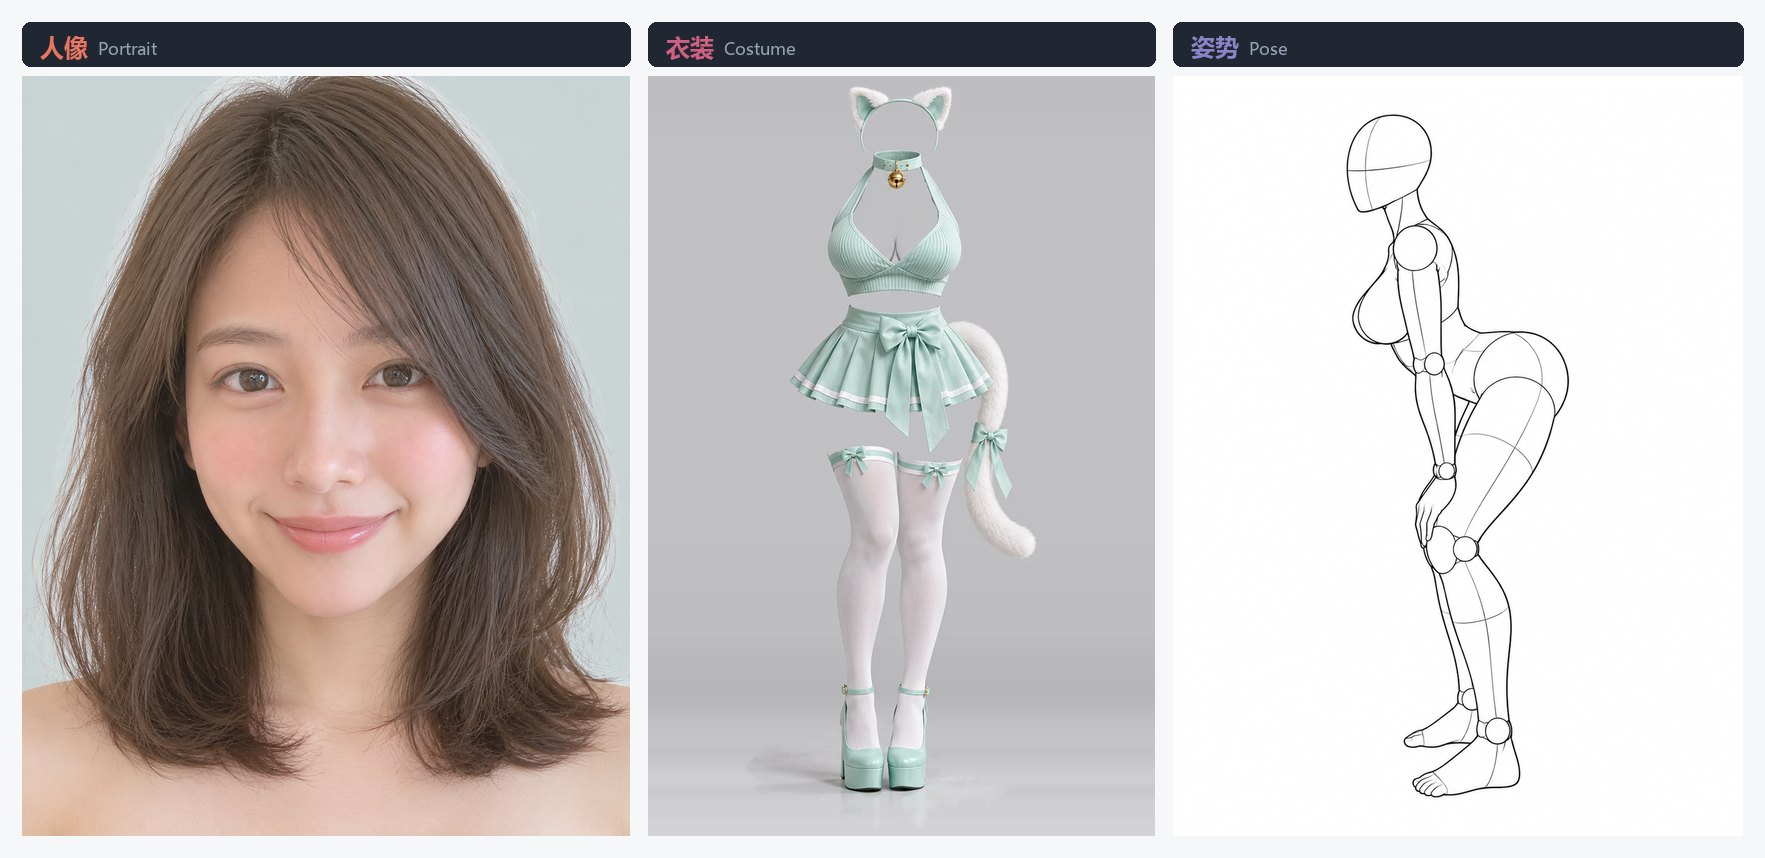
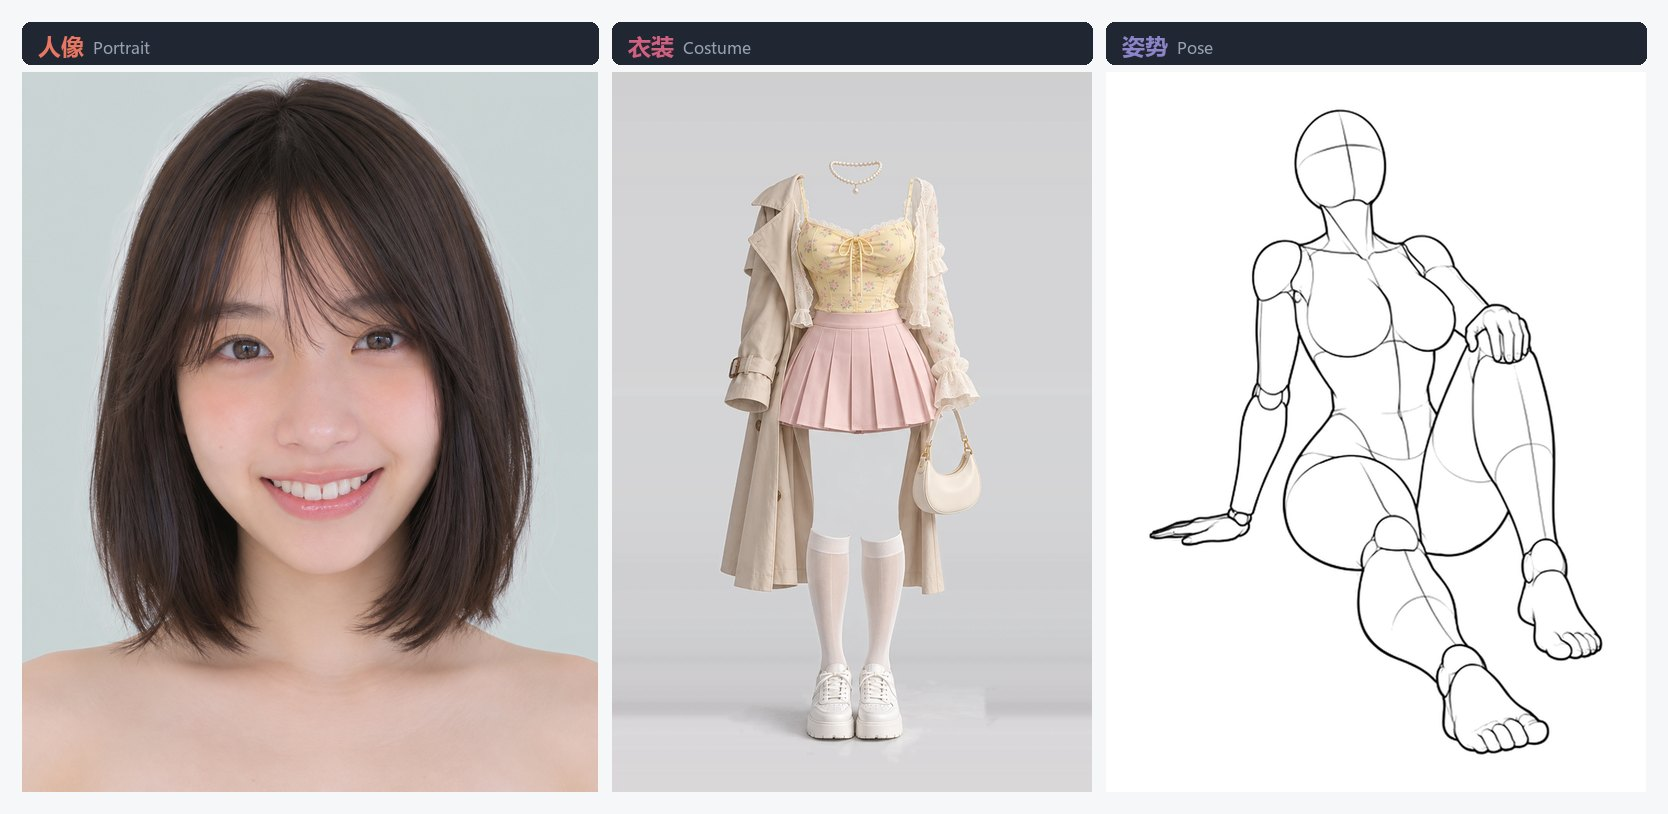
docs: 补充效果对比图与工作流示意图，修复种子上限
- docs/compare.jpg：三张参考图 → Qwen-Image-Edit 成品，同一组素材实跑
- docs/workflow.png：修复版工作流接线示意（CLIP type / latent 来源）
- docs/showcase.jpg：换成与对比图同一次运行的素材，保证前后一致
- README 增加「工作流接法」章节，写明两处必须正确的接线
- nodes.py：随机种子上限从 2^31-1 改为 2^64-1，否则前端生成的大种子
  提交时会被校验拒绝（value_bigger_than_max）

diff --git a/nodes.py b/nodes.py
@@ -82,7 +82,7 @@ class RuiCPoseAtlasLoader:
             "required": {
                 # 默认第一项即默认值：默认出原图，避免误用缩略图（400x500 级别）
                 "质量": (["原图", "缩略图"],),
-                "随机种子": ("INT", {"default": 0, "min": 0, "max": 2147483647}),
+                "随机种子": ("INT", {"default": 0, "min": 0, "max": 0xFFFFFFFFFFFFFFFF}),
                 "每次随机": ("BOOLEAN", {"default": False}),
                 "启用_人像": ("BOOLEAN", {"default": True}),
                 "启用_衣装": ("BOOLEAN", {"default": True}),

diff --git a/README.md b/README.md
@@ -10,6 +10,19 @@
 
 ![人像 / 衣装 / 姿势 三类素材示例](docs/showcase.jpg)
 
+三张图直接喂给 Qwen-Image-Edit 2.1，一次合成成品——脸来自第一张、衣服来自第二张、姿势来自第三张：
+
+![三张参考图合成一张成品](docs/compare.jpg)
+
+## 工作流接法
+
+![工作流示意：三图组合 → CLIP / VAE / UNET → Qwen-Image 2.1 文本编码 → KSampler → VAEDecode](docs/workflow.png)
+
+两个要点，接错会静默失败、不报错：
+
+1. **`CLIPLoader` 的 type 必须选 `qwen_image`**。选 `stable_diffusion` 等其它值会自动回退到通用 Qwen3-VL tokenizer，丢掉参考图的 `<imageN>` 标记和 `image_slots` 位置信息，模型收不到三张参考图，结果完全失控。
+2. **`KSampler` 的 latent 接 `TextEncodeQwenImage21` 的第 3 个输出 `latent`**，不要用 `EmptyLatentImage`。该 latent 是 64 通道、按第一张参考图尺寸生成，换成别的尺寸会让编辑发生偏移。
+
 ## 特性
 
 - **三类素材一次取齐**：人像、衣装、姿势各输出一张 `IMAGE`，另附一个 `STRING` 说明当前选中的素材 ID。
